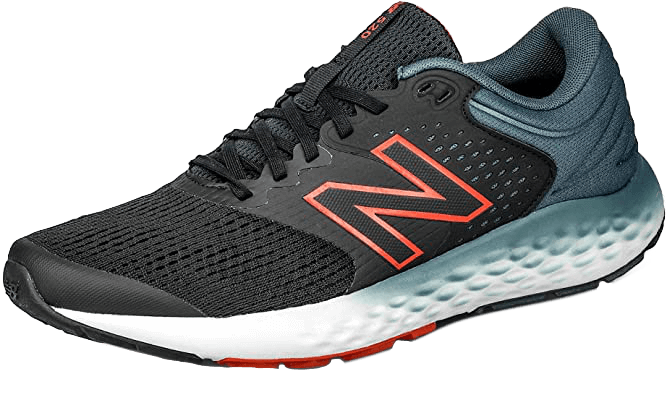
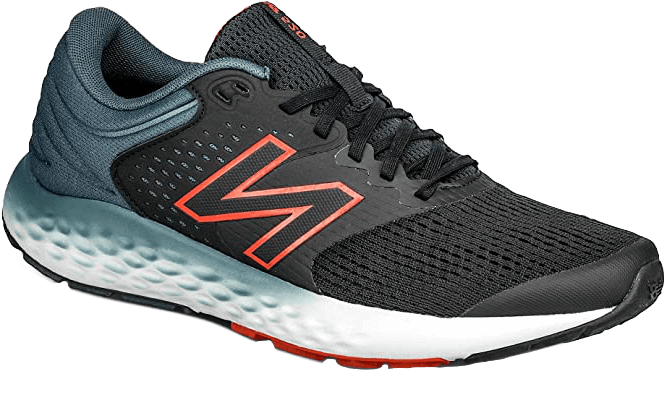
added new shoes

diff --git a/assets/scss/_uses.scss b/assets/scss/_uses.scss
@@ -1,6 +1,6 @@
 .uses {
   img {
-    max-width: 300px;
+    max-width: 500px;
     width: 100%;
   }
 

diff --git a/content/uses.md b/content/uses.md
@@ -7,11 +7,17 @@ menu:
 description: "Setup, Devices, Desk, IDE, tools, and other stuff I use"
 ---
 
-### Current Shoes
+### Shoes
+
+
+![New Balance 520 v7](/new-balance-520-v2.png)
 
 New Balance 520 v7
 
-![New Balance 520 v7](/new-balance-520-v2.png)
+![ACRONYM® x Nike Blazer Low](/acronym.png)
+
+ACRONYM® x Nike Blazer Low
+
 ### Editor
 
 - Visual Studio Code
